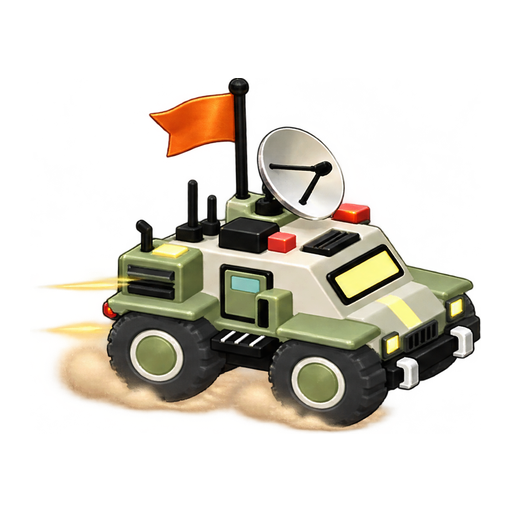
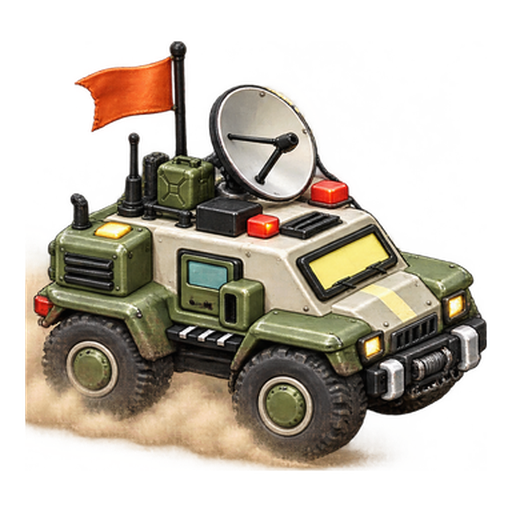
0.7.2: командная машина штаба детальнее — швы брони, кенгурятник с лебёдкой, багажник с канистрой, кабель к тарелке, лёгкая пыль

diff --git a/tools/art/build_icon_kit.py b/tools/art/build_icon_kit.py
@@ -106,7 +106,7 @@ def main():
 		("blueprints_v2.png", 3, 2): "bp_weapon bp_vehicle bp_hq bp_ability bp_bonus bp_building",
 		("ammo_charges_v2.png", 2, 1): "ammo_cluster ammo_napalm",
 		# HQ is the mobile command truck (author, 2 Oct): these replace the tent and bunker pictures.
-		("hq_vehicle_v2.png", 3, 2): "cat_hq st_headquarters hq_repair medbay - -",
+		("hq_vehicle_v3.png", 3, 2): "cat_hq st_headquarters hq_repair medbay - -",
 		("bp_hq_v2.png", 1, 1): "bp_hq",
 	}
 	for (sheet, cols, rows), names in symbols.items():
